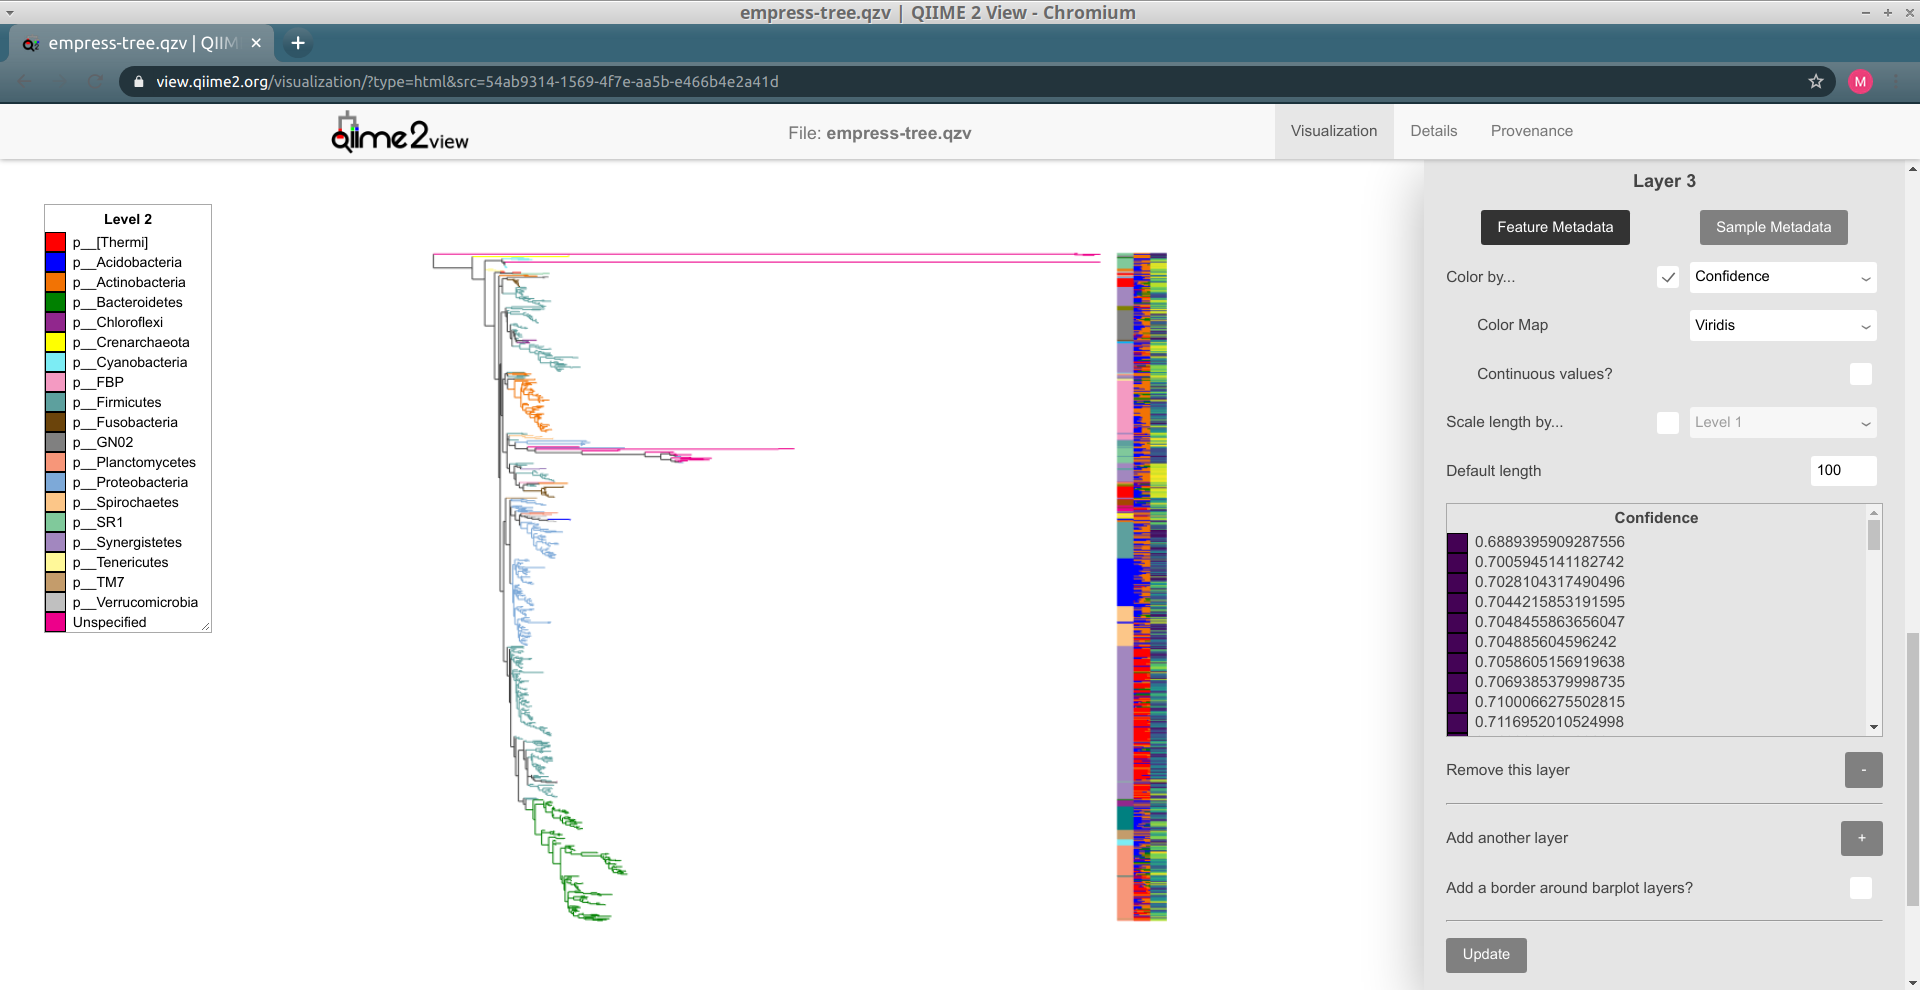
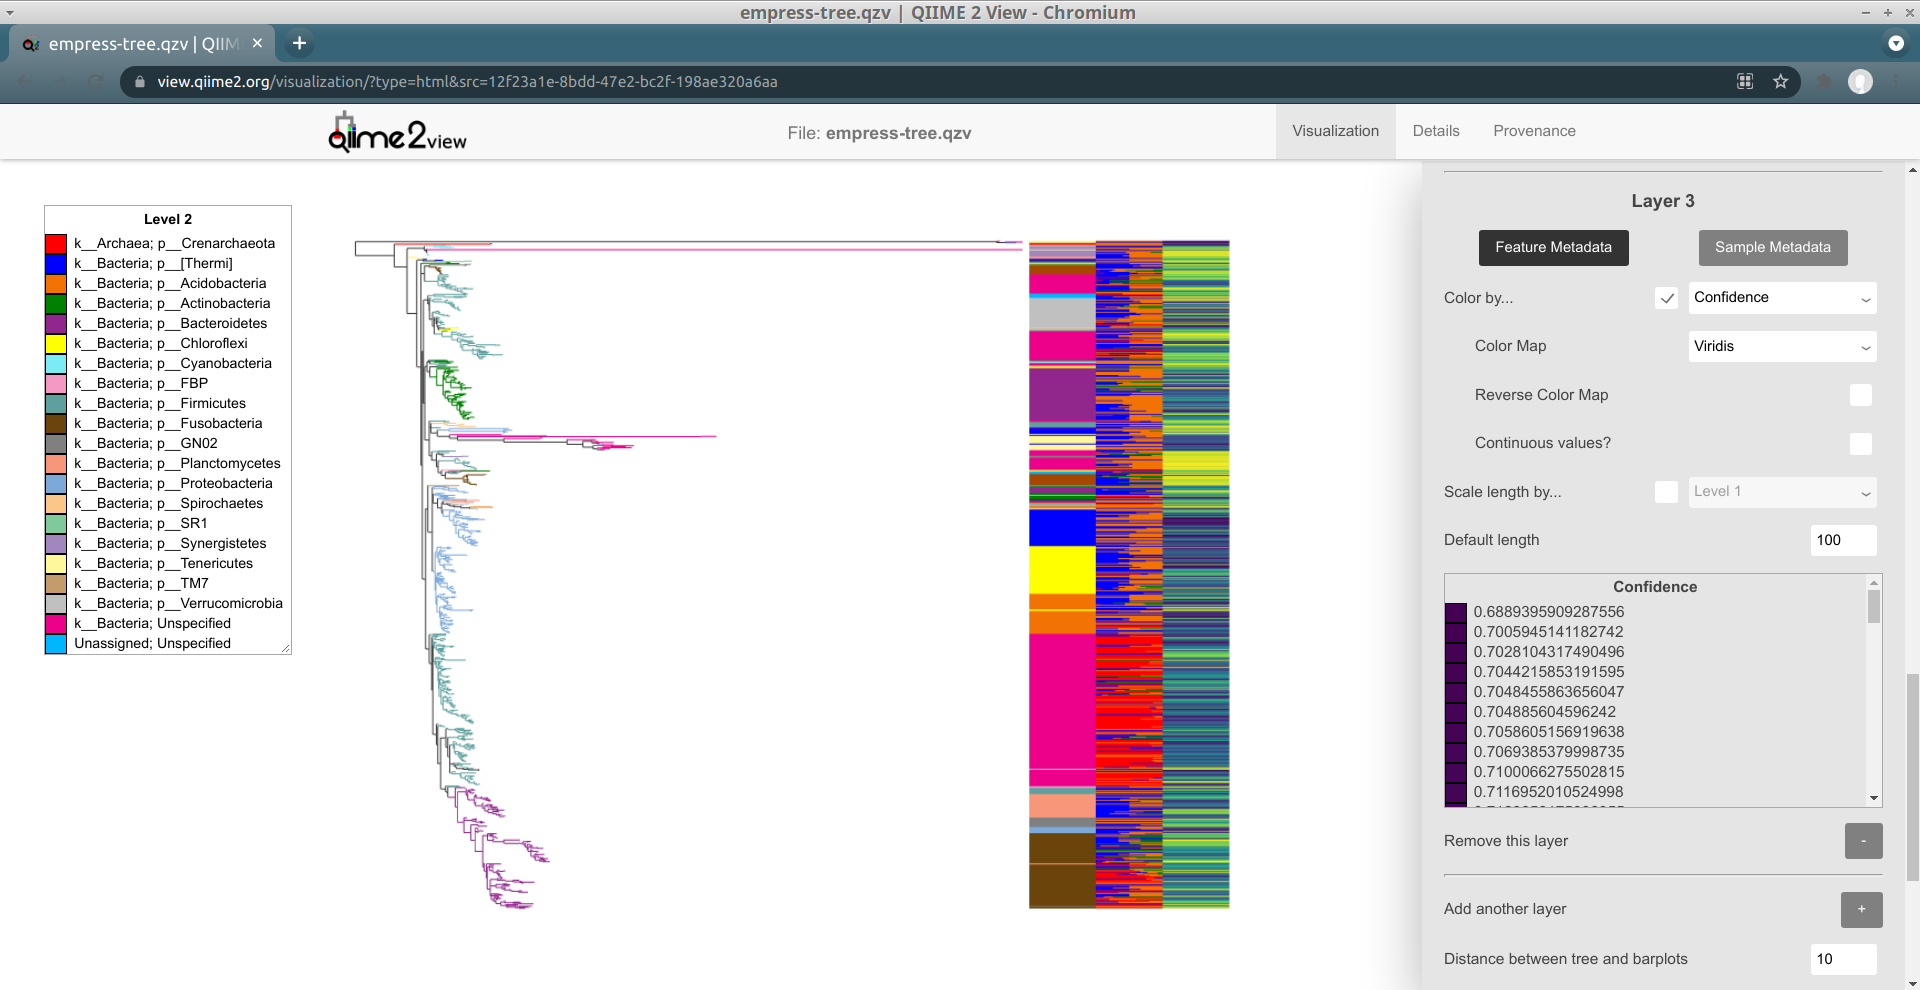
update README images; some README text updates

diff --git a/README.md b/README.md
@@ -249,10 +249,9 @@ qiime tools view empress-tree.qzv
 The starting plot is a simple unrooted tree which has all the normal properties of a phylogenetic tree. The outermost “tips” of the tree are also referred to as “leaves”, “terminal nodes”, or “external nodes” and here represent a unique ASV. The line connected to a tip is referred to as a “branch”. A branch connects two or more nodes, or in this case a tip to an internal node. These internal nodes represent a divergent point between nodes and the branch length represents the evolutionary distance between divergence points.
 You can use your mouse’s scroll wheel to zoom in and out, and click and drag anywhere on the plot to move the display to take a closer look at the various tree components. On the top-right we see a display menu with several subcategories that allow us to customize the plot. We will explore these options in more detail below.  
 
-
 #### Exploring individual features  
 
-The first thing you likely noticed in this plot is the presence of several very long branches that stand out relative to the others. Let’s investigate these further. Zoom in on the tip of the longest branch and click on the node.   
+The first thing you likely noticed in this plot is the presence of several very long branches that stand out relative to the others. Let’s investigate these further. Using your computer mouse, move the display to focus in on the tip of the longest branch and click on the node.
 
 ![empress_plain_first_outlier](https://github.com/biocore/empress/raw/master/docs/moving-pictures/img/empress_plain_first_outlier.png)
 
@@ -291,7 +290,7 @@ So far, we’ve looked at our data using the default unrooted tree view. To visu
 
 Now, let's zoom into the longest branch of the bottom cluster of *Unspecified* nodes and click on one of the close tips that has a different phylum classification (light blue).   
 
-![empress_circular_common_ancestor](https://github.com/biocore/empress/raw/master/docs/moving-pictures/img/empress_circular_common_ancestor.png)
+![empress_circular_common_ancestor](https://github.com/biocore/empress/raw/master/docs/moving-pictures/img/empress_circular_common_ancestor.gif)
 
 Interestingly, we see that this node is classified as _Acanthamoeba Palestinensis_ which is actually not a bacteria but rather a protozoa. It is not uncommon for certain Eukaryotes to appear in bacterial/archaeal reference databases as they may share a similar genetic lineage. Remember that mitochondria and chloroplasts likely evolved from prokaryotes themselves. Explore a few other common ancestral nodes from different outlier branches. We can see other surprising appearances by _Cucurbita pepo_ (a variety of squash or pumpkin), _Raphanus sativus_ (radish), and _Streptophyta_ (an order of plants). Based on these results one might speculate that our *Unspecified* features likely also belong to either plants or protozoa groups rather than bacteria. Further, since these features appear only on the palm samples, it’s possible the source of these are in fact environmental contaminants rather than common human microbes.  
 
